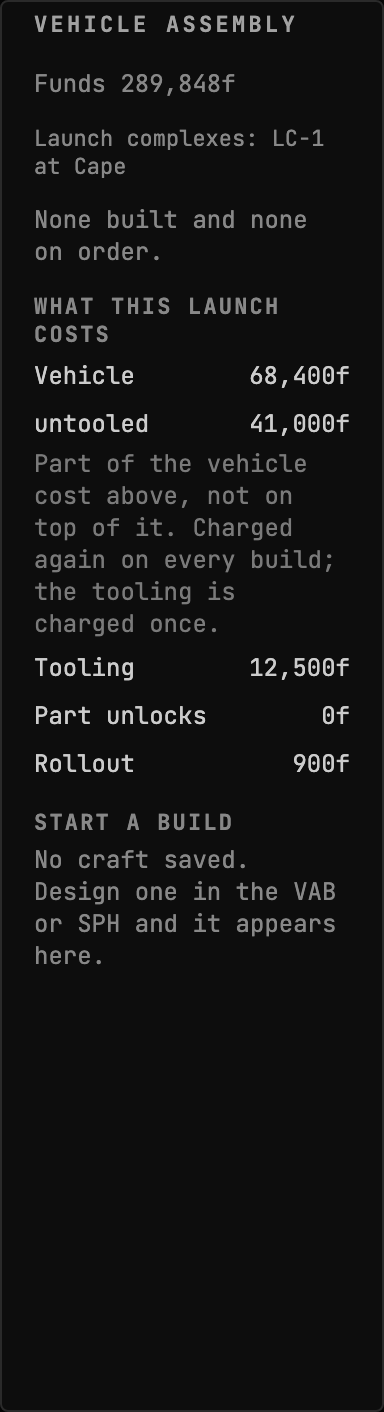
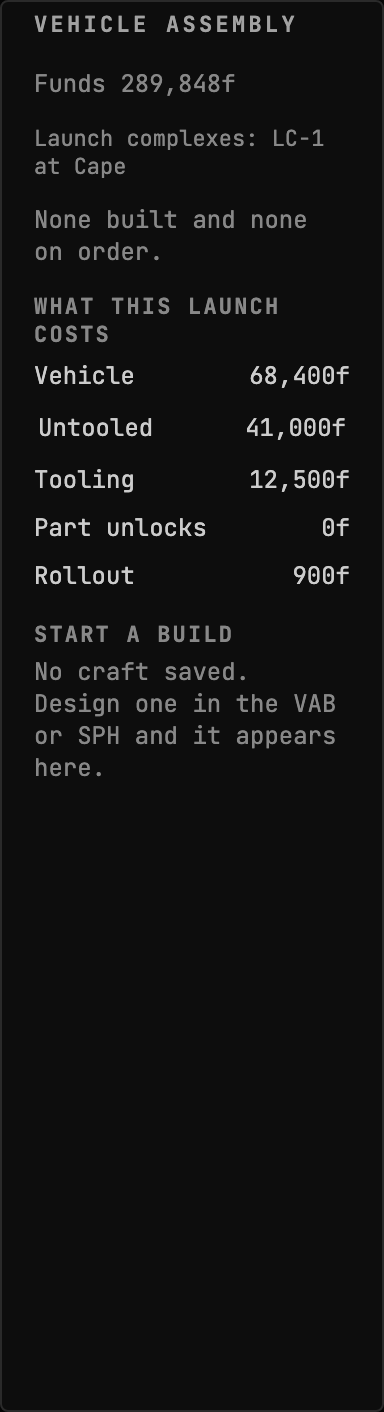
refactor(rp1): draw the of-which as an indent instead of saying it in prose
Operator ruling on the rendered cost section. Both sentences go and the
structure carries what they carried.

An of-which relationship is a TREE, so it is drawn as one: Untooled is indented
under Vehicle. The indent says containment at every size, on every render, in
no language, and it cannot be clipped away the way the label carrying it was.
Prose was simply the wrong instrument for a structural fact, which is a better
answer than the one this section shipped with this morning.

The "charged once while the penalty returns on every build" line was guidance
rather than instrumentation and is gone under the same ruling. This is a
mission control, not a storybook.

Capitalised, because it was the only lowercase line item and read as a
different KIND of thing purely by accident of casing.

The word "Untooled" is RP-1's own and stays. Its code carries
ProcessUntooledParts, GetUntooledPartsAndCost, UntooledMultiplier and a
_untooledTypesScroll region in its own tooling window, so an operator meets the
term in the game before they meet it here; a clearer-sounding synonym would
make two concepts out of one. Said in the doc comment so nobody later improves
it into something less true.

THE INDENT DOES NOT HOLD AT THE WIDGET'S MINIMUM, by two pixels, and the cause
is worth writing down rather than working around: ui-kit's Box pads BOTH sides
and only the left communicates anything, so the waste on the right is exactly
[…]

Changed region(s): [[0.0938, 0.2805, 0.9062, 0.6856], [0.75, 0.6232, 0.875, 0.6856], [0.625, 0.6232, 0.7188, 0.6856]]

diff --git a/mod/GonogoRp1Uplink/client/src/VehicleAssembly/BuildCost.tsx b/mod/GonogoRp1Uplink/client/src/VehicleAssembly/BuildCost.tsx
@@ -2,6 +2,7 @@ import type { Value } from "@ksp-gonogo/sitrep-sdk";
 import { registerAugment, useTelemetry } from "@ksp-gonogo/sitrep-sdk";
 import {
   Badge,
+  Box,
   Cluster,
   NULL_DISPLAY,
   Row,
@@ -87,41 +88,37 @@ function CostRow({ name, value }: { name: string; value?: Value<"funds"> }) {
 }
 
 /**
- * The untooled surcharge, drawn as an OF WHICH of the vehicle line above it.
+ * The untooled surcharge, drawn INDENTED under the vehicle cost.
  *
- * <para><b>This is the one row whose placement is load-bearing.</b> The surcharge
- * is already inside the vehicle cost: RP-1's tooling module is an
+ * <para><b>The indent is the whole statement, and it replaced two sentences.</b> The
+ * surcharge is already inside the vehicle cost: RP-1's tooling module is an
  * `IPartCostModifier`, the game folds its contribution into each part's price, and
- * the vehicle figure contains it before it reaches the wire. Drawn as another line
- * in the column it would invite an operator to add it, and the total they arrived
- * at would be more than the launch costs.</para>
+ * the vehicle figure contains it before it reaches the wire. Drawn level with the
+ * other lines it invites an operator to add it, and the total they arrive at is more
+ * than the launch costs.</para>
  *
- * <para>It carries the decision as well as the number. The surcharge is paid on
- * EVERY copy of this vehicle ever built and the tooling above it is paid once, so
- * the badge is the thing that turns two figures into a choice.</para>
+ * <para>That containment used to be said in prose. An of-which relationship is a
+ * TREE, so it is drawn as one: the indent says it at every size, on every render,
+ * without a word, and it cannot be clipped away the way a label was. A sentence was
+ * the wrong instrument for a structural fact.</para>
+ *
+ * <para><b>"Untooled" is RP-1's own word, not ours.</b> Its code carries
+ * `ProcessUntooledParts`, `GetUntooledPartsAndCost`, `UntooledMultiplier` and a
+ * `_untooledTypesScroll` region in its own tooling window, so an operator meets the
+ * term in the game before they meet it here. A clearer-sounding synonym would make
+ * two concepts out of one; leave it alone.</para>
  */
 function SurchargeRow({ cost }: { cost: Rp1BuildCost }) {
   if (cost.untooledSurcharge == null) {
     return null;
   }
   return (
-    /* THE MEANING IS IN THE SENTENCE, NOT THE LABEL, and renders at three sizes
-       are what settled that. The row's name gets 60px at this widget's minimum and
-       "of which untooled" needs 122, so the wording that carries the whole point
-       was clipped away exactly where the widget is hardest to read. A short label
-       and a full-width line below it cannot clip, and the line can say more than a
-       label had room to: that this is part of the figure above rather than extra,
-       and that it returns on every build while the tooling does not. */
-    <Stack gap="xs" data-of-which="">
+    <Box pad={["xs", "xs"]} data-of-which="">
       <Row as="div">
-        <RowName>untooled</RowName>
+        <RowName>Untooled</RowName>
         <Unit value={cost.untooledSurcharge} decimals={0} />
       </Row>
-      <Text tone="faint" size="sm">
-        Part of the vehicle cost above, not on top of it. Charged again on every
-        build; the tooling is charged once.
-      </Text>
-    </Stack>
+    </Box>
   );
 }
 

diff --git a/mod/GonogoRp1Uplink/client/src/VehicleAssembly/buildCost.test.tsx b/mod/GonogoRp1Uplink/client/src/VehicleAssembly/buildCost.test.tsx
@@ -99,17 +99,30 @@ describe("BuildCostSection: funds, and only funds", () => {
   });
 
   /**
-   * The assertion the whole section is shaped around. The surcharge is INSIDE the
-   * vehicle cost, so the wording has to say so: an operator who reads the column
-   * as a sum arrives at a number larger than the launch costs.
+   * The containment is STRUCTURAL, so this asserts the structure rather than a
+   * sentence. The surcharge is inside the vehicle cost, and an operator who reads
+   * the column as a sum arrives at more than the launch costs; the indent is what
+   * stops that, on every render and at every size, where prose was clipped away at
+   * the narrow ones.
+   *
+   * <para>Asserted through the marker the indent container carries rather than
+   * through a class or a pixel offset: the test should fail if the row stops being
+   * SUBORDINATE, not if the design system changes how far it insets.</para>
    */
-  it("says the surcharge is part of the vehicle cost rather than on top of it", async () => {
+  it("nests the surcharge under the vehicle cost rather than beside it", async () => {
     const stream = mount();
 
     emit(stream, PRICED);
+    await screen.findByText("Untooled");
 
-    expect(await screen.findByText(/untooled/)).toBeInTheDocument();
-    expect(visibleText(stream.container)).toContain("not on top of it");
+    const nested = stream.container.querySelector("[data-of-which]");
+    expect(nested).not.toBeNull();
+    expect(nested?.textContent).toContain("Untooled");
+
+    // And the prose it replaced is gone, so a later edit cannot quietly put a
+    // sentence back beside the structure that now carries the meaning.
+    expect(visibleText(stream.container)).not.toContain("not on top of it");
+    expect(visibleText(stream.container)).not.toContain("charged once");
   });
 
   /**

diff --git a/mod/GonogoRp1Uplink/client/README.md b/mod/GonogoRp1Uplink/client/README.md
@@ -165,9 +165,7 @@ Every craft RP-1 is integrating, holding or could start, across every launch com
 
 ![The same widget at 18 × 5](docs/assets/build-cost-absences-and-tech-gate--landscape-18x5.png)
 
-![Most of what this vehicle costs is the penalty for flying it untooled, and the tooling that removes it is cheaper than one build of the penalty](docs/assets/build-cost-mostly-surcharge--default.png)
-
-![The same widget at its minimum size](docs/assets/build-cost-mostly-surcharge--min.png)
+![Most of what this vehicle costs is the penalty for flying it untooled: the indent says that figure is part of the one above rather than added to it](docs/assets/build-cost-mostly-surcharge--default.png)
 
 ![The same widget at 9 × 8](docs/assets/build-cost-mostly-surcharge--mobile-9x8.png)
 
